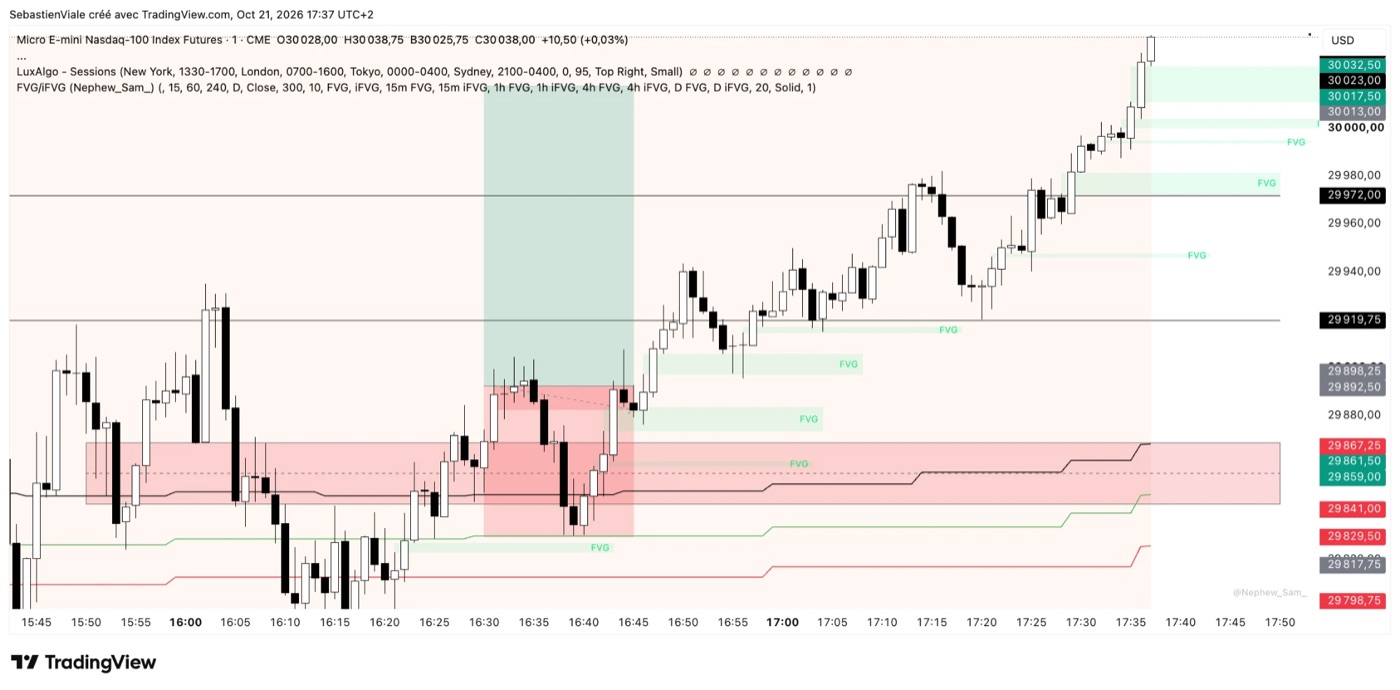
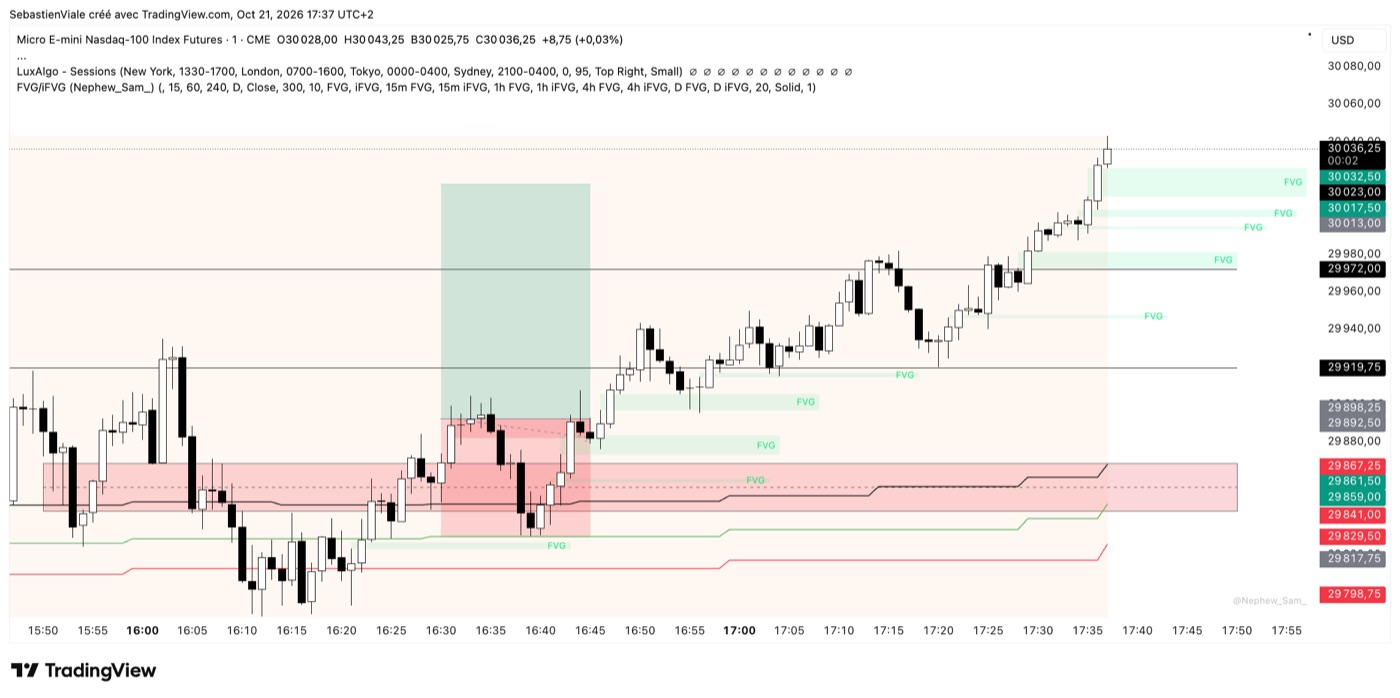
fix: captures du 21/10 rangées sous le trade de leur compte (fichier « 001 » → 001, fichier « 006 » → 02b) au lieu des deux sous le 02b ; niveaux stop/objectif lus sur chacune, R:R du 001 ≈ 1,86

Changed region(s): [[0.0, 0.0609, 1.0, 0.913], [0.0, 0.0, 0.4607, 0.0609], [0.0, 0.9435, 0.1229, 0.9739]]

diff --git a/sessions/2026-10-21-mercredi.html b/sessions/2026-10-21-mercredi.html
@@ -25,9 +25,9 @@
   <strong>+30,00 $ — un seul trade, pris sur deux comptes : 02b +500 $, 001 −470 $.</strong><br><br>
   <strong>1 · 02b — MNQ Long 2 contrats : +500 $.</strong> Achat à 16h35:21 à 29 892,00, vente à 17h36:34 à 30 017,00 : 125 pts en ta faveur en 1 h 01 min 13 (2 × 125 pts × 2 $). Objectif touché. Entré 1 h 05 après l'ouverture US (15h30).<br><br>
   <strong>1 (même trade) · 001 — MNQ Long 4 contrats : −470 $.</strong> Achat à 16h34:55 à 29 895,25, vente à 16h38:41 à 29 836,50 : 58,75 pts contre toi en 3 min 46 (4 × 58,75 pts × 2 $). Entré 26 s avant le 02b, 3,25 pts plus haut ; sorti à 29 836,50, soit 7 pts au-dessus du stop de la capture (29 829,50) : stop différent ou sortie manuelle — le CSV ne le dit pas. Le prix est ensuite remonté jusqu'à l'objectif du 02b.<br><br>
-  <strong>Ce que disent tes captures</strong> (TradingView, 1 min, 17h37 — la seconde une minute plus tard) : outil de position Long du 02b — <strong>entrée 29 892,5</strong> (ton fill : 29 892,00), <strong>stop 29 829,5</strong> (étiquette rouge), <strong>objectif 30 017,5</strong> (étiquette verte ; ta sortie : 30 017,00). Risque 63 pts, gain 125 pts : <strong>R:R ≈ 2,0</strong> (1,98 avec l'entrée de l'outil, 2,01 avec ton fill) — un peu au-dessus du 1,95 de la règle V2.8 (pour 1,95, l'objectif aurait été vers 30 015,4). <strong>R réalisé du 02b : +500 $ ÷ 250 $ de risque (62,5 pts × 2 contrats × 2 $) = +2,0 R.</strong> Le 001, lui, a perdu 470 $ sur un stop que je ne connais pas.<br><br>
+  <strong>Ce que disent tes captures</strong> (TradingView, 1 min, 17h37 : « 001 » à 17h37:22, « 006 » à 17h37:58 ; chacune est rangée sous le trade de son compte, et les deux montrent le même outil de position, aux mêmes niveaux) : outil de position Long — <strong>entrée 29 892,5</strong> (ton fill : 29 892,00), <strong>stop 29 829,5</strong> (étiquette rouge), <strong>objectif 30 017,5</strong> (étiquette verte ; ta sortie : 30 017,00). Risque 63 pts, gain 125 pts : <strong>R:R ≈ 2,0</strong> (1,98 avec l'entrée de l'outil, 2,01 avec ton fill) — un peu au-dessus du 1,95 de la règle V2.8 (pour 1,95, l'objectif aurait été vers 30 015,4). <strong>R réalisé du 02b : +500 $ ÷ 250 $ de risque (62,5 pts × 2 contrats × 2 $) = +2,0 R.</strong> <strong>Sur le 001</strong>, les mêmes niveaux donnent, avec son fill à 29 895,25 : risque 65,75 pts (4 contrats : 526 $), gain 122,25 pts, <strong>R:R ≈ 1,86</strong>. Il est sorti à 29 836,50 (−470 $), avant ce stop : <strong>≈ −0,9 R</strong> par rapport au stop de la capture (indicatif, son vrai stop n'est pas dans le CSV).<br><br>
   <strong>Comptage :</strong> une même position prise sur deux comptes = un seul trade (ta règle du 19/10), ici gagnant (+30 $ au total) ; règle 8 non enfreinte.<br><br>
-  <strong>Contrôle du plan — respecté :</strong> 1 trade (max 3) ✓ · aucune ré-entrée à moins de 10 min d'une perte ✓ · 4 et 2 contrats (plafond levé en octobre) · perte du 001 de 470 $, sous le budget de 500 $ ✓ · entrées après 15h30 ✓ · règle V2.1 : stop de 63 pts = 252 ticks, sous les 400 ticks ✓ · R:R ≈ 2,0 lu sur la capture (MME 1H et niveau de protection du stop, règle V2.2 : non évalués).<br><br>
+  <strong>Contrôle du plan — respecté :</strong> 1 trade (max 3) ✓ · aucune ré-entrée à moins de 10 min d'une perte ✓ · 4 et 2 contrats (plafond levé en octobre) · perte du 001 de 470 $, sous le budget de 500 $ ✓ (au stop de la capture, le risque du 001 aurait été de 526 $ : à vérifier s'il avait bien ce stop) · entrées après 15h30 ✓ · règle V2.1 : stop de 63 pts = 252 ticks, sous les 400 ticks ✓ · R:R ≈ 2,0 lu sur la capture (MME 1H et niveau de protection du stop, règle V2.2 : non évalués).<br><br>
   <strong>Plan Daxton (V2).</strong><br><br>
   <strong>Ce qui manque :</strong> le biais MME et le niveau de protection du stop (V2.2) ; le stop du 001.
 </div>
@@ -108,8 +108,11 @@ var ACCTS = {
 
 /* Captures et niveaux enregistrés par Claude (facultatif) : quand Sébastien colle une capture dans le chat, Claude lit le stop / l'objectif / le R:R dessus, copie l'image
    dans sessions/img/ et la place ici sous le bon trade. Clés : '<compte>_<n>' (zone « ce qui s'est passé ») ou '<compte>_<n>:fix:daxton' (« ce que j'aurais dû faire »). */
-var SJ_SHOTS = { '02b_1': ['img/2026-10-21_02b_1.jpg', 'img/2026-10-21_02b_1_b.jpg'] };
-var SJ_LEVELS = { '02b_1': { stop: '29829.50', objectif: '30017.50', src: 'lus sur la capture' } };
+var SJ_SHOTS = { '001_1': ['img/2026-10-21_001_1.jpg'], '02b_1': ['img/2026-10-21_02b_1.jpg'] };
+var SJ_LEVELS = {
+  '001_1': { stop: '29829.50', objectif: '30017.50', src: 'lus sur la capture « 001 »' },
+  '02b_1': { stop: '29829.50', objectif: '30017.50', src: 'lus sur la capture « 006 »' }
+};
 
 function renderAcct(acctId, bodyId){
   var notes = sjLoadNotes();

diff --git a/index.html b/index.html
@@ -2333,7 +2333,7 @@ window.TRADES = [
    vérifié depuis les CSV bruts. N'évalue pas la qualité de l'entrée.
    Absent = pas encore évalué (jours avant le 14/09). Sert au KPI "Respect du plan". */
 window.SESSIONS = [
-  { jour:"21/10", label:"Mercredi 21 oct.", fichier:"2026-10-21-mercredi.html", pnl:30.00, trades:1, gagnants:1, neutres:0, planOk:true, rt:[1,0,0], img:true, note:"Un seul trade, pris sur deux comptes (même position : Long MNQ) : 02b +500 $ (2 contrats, 16h35→17h36, objectif touché : +125 pts, +2,0 R) et 001 −470 $ (4 contrats, 16h34→16h38, 58,75 pts contre toi), soit +30 $ au total. Tes captures (1 min) donnent le plan du 02b : entrée 29 892,5, stop 29 829,5, objectif 30 017,5, R:R ≈ 2,0 (1,98 à 2,01 selon l'entrée retenue) — un peu au-dessus du 1,95 de la règle V2.8. Plan Daxton (V2). Plan respecté (1 trade, aucune ré-entrée). Biais MME non connu, je ne l’invente pas." },
+  { jour:"21/10", label:"Mercredi 21 oct.", fichier:"2026-10-21-mercredi.html", pnl:30.00, trades:1, gagnants:1, neutres:0, planOk:true, rt:[1,0,0], img:true, note:"Un seul trade, pris sur deux comptes (même position : Long MNQ) : 02b +500 $ (2 contrats, 16h35→17h36, objectif touché : +125 pts, +2,0 R) et 001 −470 $ (4 contrats, 16h34→16h38, 58,75 pts contre toi), soit +30 $ au total. Tes deux captures (« 001 » et « 006 », 1 min, chacune sous le trade de son compte) montrent le même outil : entrée 29 892,5, stop 29 829,5, objectif 30 017,5, R:R ≈ 2,0 sur le 02b (1,98 à 2,01 selon l'entrée retenue) — un peu au-dessus du 1,95 de la règle V2.8 — et ≈ 1,86 sur le 001 (fill à 29 895,25, sorti à 29 836,50 avant ce stop). Plan Daxton (V2). Plan respecté (1 trade, aucune ré-entrée). Biais MME non connu, je ne l’invente pas." },
   { jour:"20/10", label:"Mardi 20 oct.", fichier:"2026-10-20-mardi.html", pnl:-985.50, trades:2, gagnants:0, neutres:0, planOk:true, rt:[2,0,0], img:true, note:"Deux trades perdants. 1) Le matin, une même position prise sur deux comptes (Short MNQ de 3 contrats) : 02b −468 $ (15h40→15h56, 78 pts contre toi, stop touché : −1,0 R) et 001 −283,50 $ (15h41→15h47), entré 1 min 43 s après le 02b et 76,5 pts plus bas. Ta capture donne le plan du 02b : entrée ≈ 29 497,5, stop ≈ 29 575, objectif ≈ 29 344, R:R ≈ 1,97 (règle V2.8 : 1,95). 2) Le soir, le 001 seul : Short MNQ 3 contrats −234 $ (17h40→17h41, 39 pts contre toi en 1 min 39), absent de l’export du 20/10 et ajouté le 21/10. Plan Daxton (V2), confirmé par toi. Plan respecté (2 trades, 3 contrats, aucune ré-entrée à moins de 10 min). Biais MME non connu, je ne l’invente pas." },
   { jour:"19/10", label:"Lundi 19 oct.", fichier:"2026-10-19-lundi.html", pnl:-490.00, trades:1, gagnants:0, neutres:0, planOk:true, rt:[1,0,0], note:"Un seul trade, pris sur deux comptes (même position : Short MNQ de 4 contrats) : 001 −500 $ (15h40→15h43, 62,5 pts contre toi en 3 min 13 : pile le budget de 500 $) et 02b +10 $ (15h42→16h13, un break-even, confirmé par toi). Une même position sur deux comptes ne compte pas comme deux ordres différents (ta règle du 19/10) et la règle 8 n’est pas enfreinte, d’après toi. Plan respecté (1 trade, aucune ré-entrée, 4 contrats). Pas de note ni de capture : schéma, biais MME, stop et objectif non connus, je ne les invente pas." },
   { jour:"16/10", label:"Vendredi 16 oct.", fichier:"2026-10-16-vendredi.html", pnl:1138.00, trades:7, gagnants:2, neutres:0, planOk:false, planWhy:"7 trades (max 3), du 3e au 7e pris après 2 pertes ou plus, 4 ré-entrées à moins de 10 min d’une perte (−680 $)", rt:[7,4,-680], note:"Sept trades (neuf lignes CSV : deux fois la même position sur deux comptes) sur trois comptes, +1 138 $ : 001 +1 252 $ (Long −364 $, Long +368 $, Short +1 248 $), 02b +954 $ (MCL Long −140 $, MNQ Long +30 $, Short +1 064 $), A −1 068 $ (trois pertes en 12 minutes : Short −354 $, Long −478 $, Long −236 $). Les deux Shorts gagnants (+1 064 $ sur 133 pts, +1 248 $ sur 156 pts) forment un seul trade pris sur deux comptes (+2 312 $), de même que les deux Longs de 16h35 (+398 $) : même position, comptée une seule fois, sans infraction à la règle 8. Le A passe 71,50 $ sous son seuil supposé : probablement cramé d’après le calcul, à confirmer. Pas de note ni de capture : schéma, stops et objectifs non connus, je ne les invente pas." },
